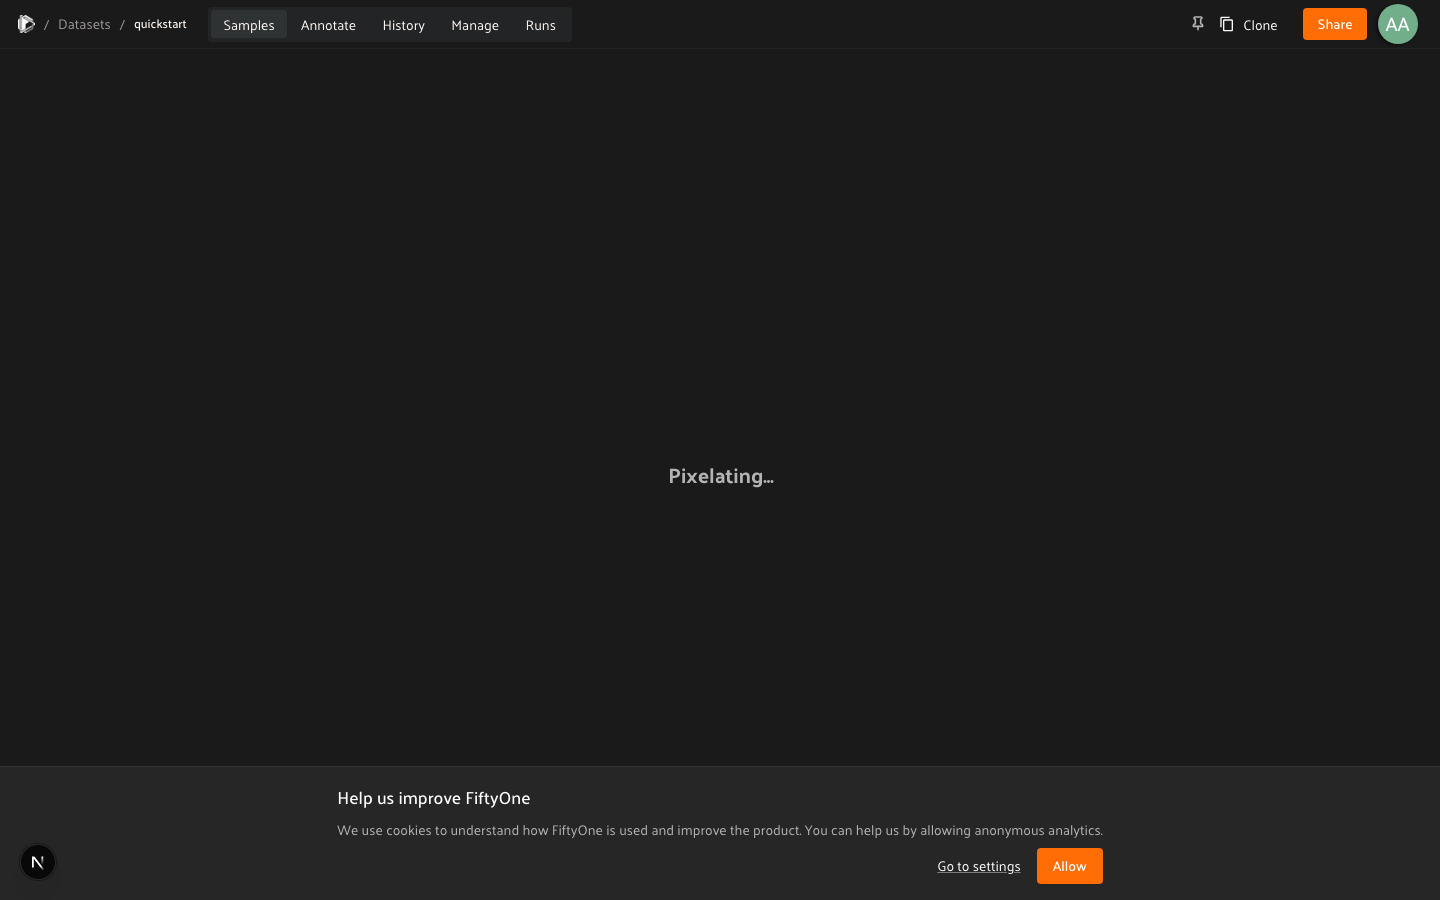
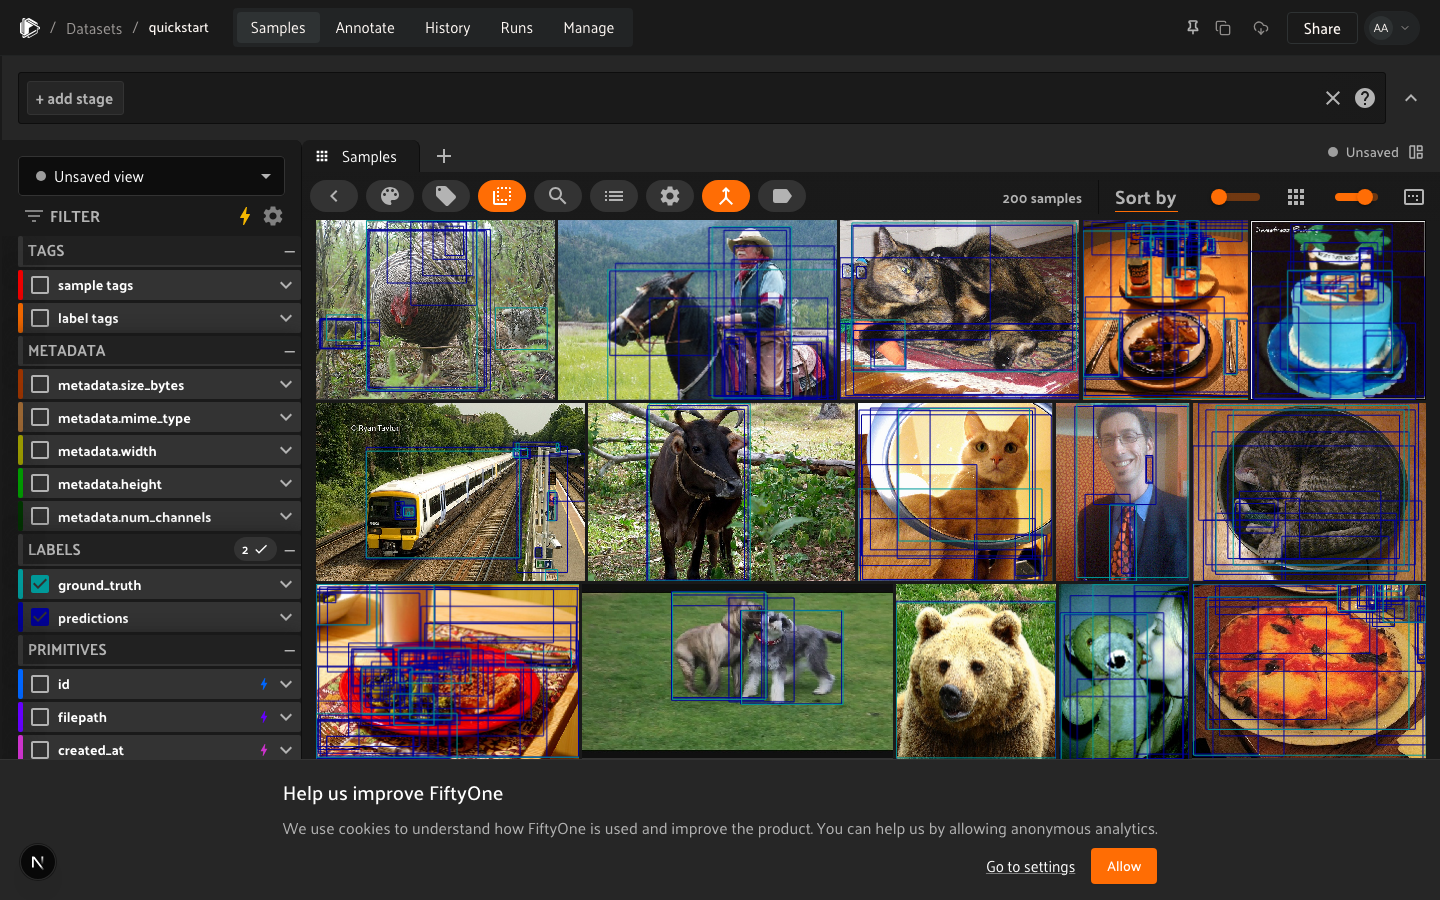
feat(v2): UserMenu, and pin React types to the peer range
Adds the account-menu pill from the master as a chrome component. The
master hand-rolls its open state with a document mousedown listener; this
builds on DropdownMenu, so it gets focus return, Escape, arrow keys, and
typeahead. The menu body stays the caller's — the items differ per app and
none of them are design-system material.

Also exports PopoverAnchor, which the master's popover module does not.
It is needed for the combobox shape: a text input the popover hangs off
while the input keeps focus, and typing rather than clicking drives open
state. Trigger cannot do that — it toggles on click and takes focus.

Pins @types/react to ^18.3, matching the declared React 18 peer. It was
^19, so the emitted .d.ts referenced React 19 types; through the portal
link those reached a React 18 consumer and every ComponentType prop
failed with 'cannot be used as a JSX component'. Any consumer on React 18
would have hit it, not just the portal.

diff --git a/src/v2/components/chrome/UserMenu.tsx b/src/v2/components/chrome/UserMenu.tsx
@@ -1,0 +1,101 @@
+import { ChevronDown, User } from "lucide-react";
+import * as React from "react";
+
+import { cn } from "../../lib/utils";
+import {
+  DropdownMenu,
+  DropdownMenuContent,
+  DropdownMenuTrigger,
+} from "../ui/dropdown-menu";
+
+/**
+ * Account menu for the app header — an avatar pill that opens a menu.
+ *
+ * The pill is deliberately not a bare avatar: at 24px an avatar alone reads as
+ * decoration, and the chevron is what marks it as the thing to click. Ported
+ * from the Lovable master, where it sits at the right end of both headers.
+ *
+ * The master hand-rolls the open state with a `mousedown` listener. This uses
+ * `DropdownMenu`, so it gets focus return, Escape, arrow-key navigation, and
+ * typeahead — none of which the hand-rolled version has.
+ *
+ * The menu body is yours to compose from the `DropdownMenu*` parts; the
+ * contents differ per app and none of it belongs in the design system.
+ */
+export interface UserMenuProps {
+  /** Menu body. Compose from `DropdownMenuItem`, `DropdownMenuSeparator`, … */
+  children: React.ReactNode;
+  /**
+   * Avatar inside the pill. Defaults to a person glyph on `bg-card-elevated`.
+   * Pass an `<img>` or initials to show a real user.
+   */
+  avatar?: React.ReactNode;
+  align?: "start" | "center" | "end";
+  /** Accessible name for the trigger. */
+  label?: string;
+  className?: string;
+  contentClassName?: string;
+}
+
+export function UserMenu({
+  children,
+  avatar,
+  align = "end",
+  label = "Account menu",
+  className,
+  contentClassName,
+}: UserMenuProps) {
+  return (
+    <DropdownMenu>
+      <DropdownMenuTrigger asChild>
+        <button
+          type="button"
+          aria-label={label}
+          className={cn(
+            "flex items-center gap-1.5 rounded-full border border-border/10 bg-card-2 py-1 pl-1 pr-2 transition-colors",
+            "hover:border-border/30 data-[state=open]:border-border/30",
+            "focus-visible:outline-none focus-visible:ring-2 focus-visible:ring-ring focus-visible:ring-offset-2 ring-offset-background",
+            className,
+          )}
+        >
+          {avatar ?? (
+            <span className="flex h-6 w-6 items-center justify-center rounded-full bg-card-elevated">
+              <User className="h-3 w-3 text-muted-foreground" />
+            </span>
+          )}
+          <ChevronDown className="h-3 w-3 text-muted-foreground" />
+        </button>
+      </DropdownMenuTrigger>
+      <DropdownMenuContent
+        align={align}
+        className={cn("min-w-[12rem]", contentClassName)}
+      >
+        {children}
+      </DropdownMenuContent>
+    </DropdownMenu>
+  );
+}
+
+/**
+ * Name-over-detail block for the top of a `UserMenu`. Not a menu item — it is
+ * a caption, so it takes no focus and does not close the menu.
+ */
+export interface UserMenuIdentityProps {
+  name: React.ReactNode;
+  /** Second line: email in the master, organization in teams-app. */
+  detail?: React.ReactNode;
+  className?: string;
+}
+
+export function UserMenuIdentity({
+  name,
+  detail,
+  className,
+}: UserMenuIdentityProps) {
+  return (
+    <div className={cn("px-2.5 py-1.5", className)}>
+      <p className="text-body-sm text-foreground">{name}</p>
+      {detail && <p className="text-meta text-muted-foreground">{detail}</p>}
+    </div>
+  );
+}

diff --git a/src/v2/components/chrome/UserMenu.stories.tsx b/src/v2/components/chrome/UserMenu.stories.tsx
@@ -1,0 +1,67 @@
+import type { Meta, StoryObj } from "@storybook/react";
+import { LogOut, Settings, Sun } from "lucide-react";
+
+import {
+  DropdownMenuItem,
+  DropdownMenuSeparator,
+} from "../ui/dropdown-menu";
+import { UserMenu, UserMenuIdentity } from "./UserMenu";
+
+const meta = {
+  title: "v2/Chrome/UserMenu",
+  component: UserMenu,
+  parameters: { layout: "centered" },
+} satisfies Meta<typeof UserMenu>;
+
+export default meta;
+type Story = StoryObj<typeof meta>;
+
+export const Default: Story = {
+  args: {
+    children: (
+      <>
+        <UserMenuIdentity name="Sam Rivera" detail="sam@voxel51.com" />
+        <DropdownMenuSeparator />
+        <DropdownMenuItem>
+          <Settings />
+          Settings
+        </DropdownMenuItem>
+        <DropdownMenuItem>
+          <Sun />
+          Switch to light theme
+        </DropdownMenuItem>
+        <DropdownMenuSeparator />
+        <DropdownMenuItem>
+          <LogOut />
+          Sign out
+        </DropdownMenuItem>
+      </>
+    ),
+  },
+};
+
+/** Initials stand in when there is no avatar image. */
+export const WithInitials: Story = {
+  args: {
+    ...Default.args,
+    avatar: (
+      <span className="flex h-6 w-6 items-center justify-center rounded-full bg-card-elevated text-meta text-foreground">
+        SR
+      </span>
+    ),
+  },
+};
+
+/** A photo fills the pill; the chevron still marks it as interactive. */
+export const WithPhoto: Story = {
+  args: {
+    ...Default.args,
+    avatar: (
+      <img
+        src="https://i.pravatar.cc/48?img=12"
+        alt=""
+        className="h-6 w-6 rounded-full object-cover"
+      />
+    ),
+  },
+};

diff --git a/src/v2/components/ui/popover.tsx b/src/v2/components/ui/popover.tsx
@@ -7,6 +7,16 @@ const Popover = PopoverPrimitive.Root;
 
 const PopoverTrigger = PopoverPrimitive.Trigger;
 
+/**
+ * Positions the popover against an element that does not open it.
+ *
+ * Additive to the Lovable master, which exports only Root/Trigger/Content.
+ * Needed for the combobox shape — a text input the popover hangs off while the
+ * input keeps focus and typing, not clicking, controls open state. `Trigger`
+ * cannot do that: it toggles on click and owns focus.
+ */
+const PopoverAnchor = PopoverPrimitive.Anchor;
+
 const PopoverContent = React.forwardRef<
   React.ElementRef<typeof PopoverPrimitive.Content>,
   React.ComponentPropsWithoutRef<typeof PopoverPrimitive.Content>
@@ -26,4 +36,4 @@ const PopoverContent = React.forwardRef<
 ));
 PopoverContent.displayName = PopoverPrimitive.Content.displayName;
 
-export { Popover, PopoverTrigger, PopoverContent };
+export { Popover, PopoverTrigger, PopoverAnchor, PopoverContent };

diff --git a/src/v2/components/chrome/index.ts b/src/v2/components/chrome/index.ts
@@ -11,5 +11,6 @@ export * from "./IconTooltip";
 export * from "./PanelEmptyState";
 export * from "./PanelHeader";
 export * from "./SettingsShell";
+export * from "./UserMenu";
 export * from "./WorkspaceHeader";
 export * from "./VoxelIcon";
